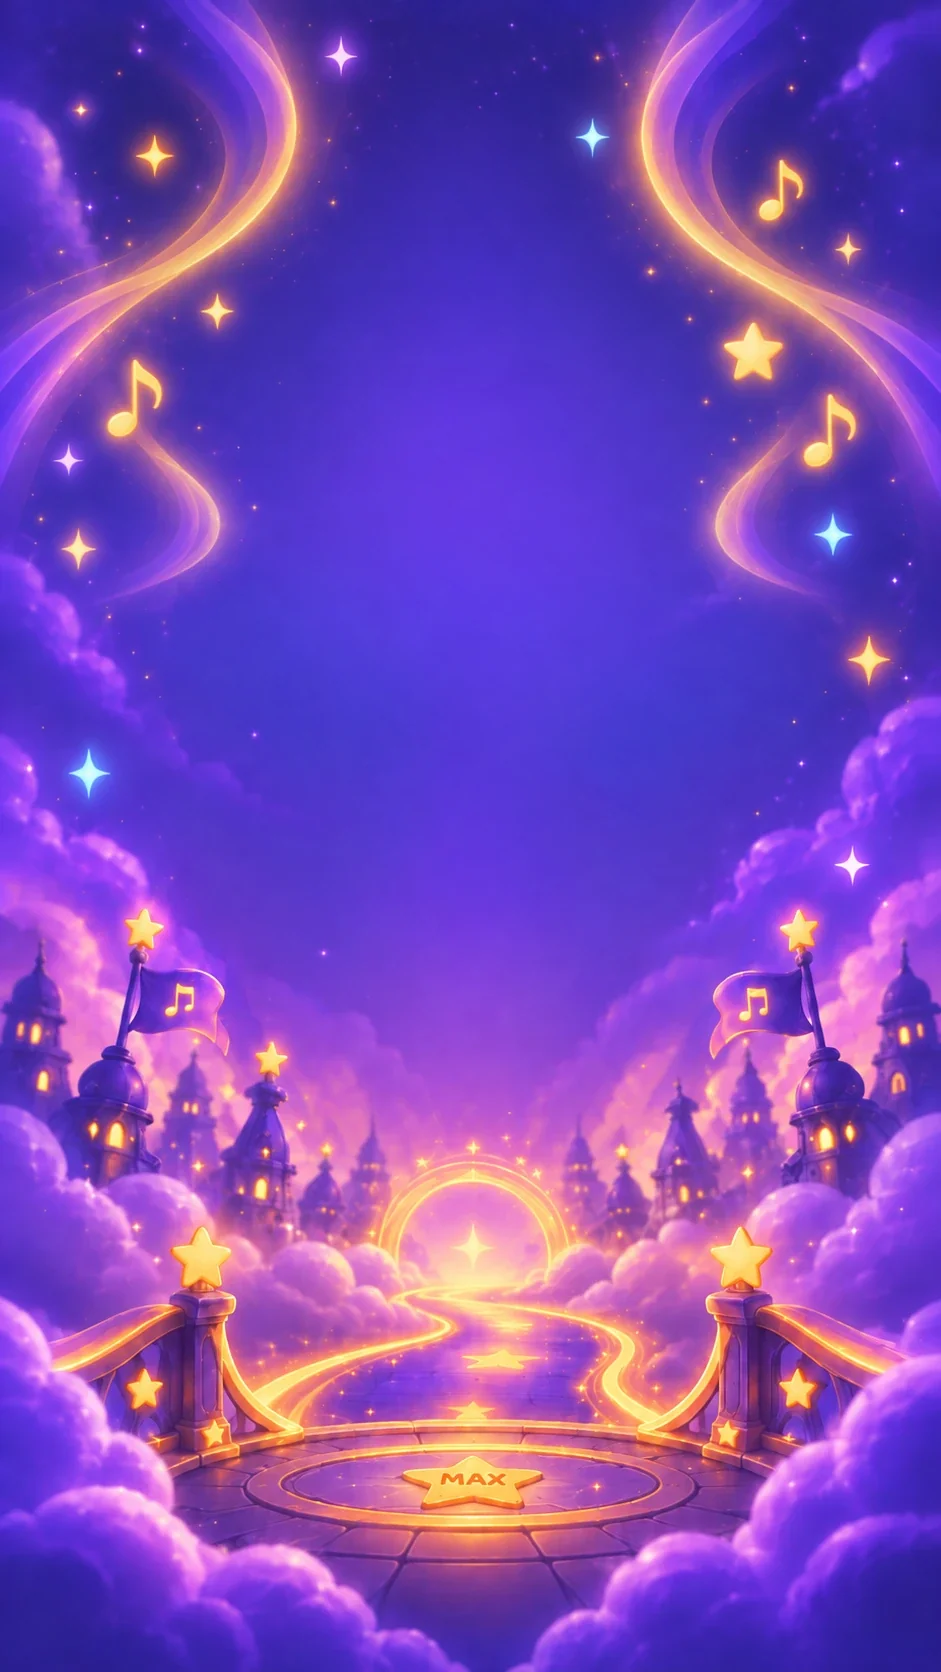
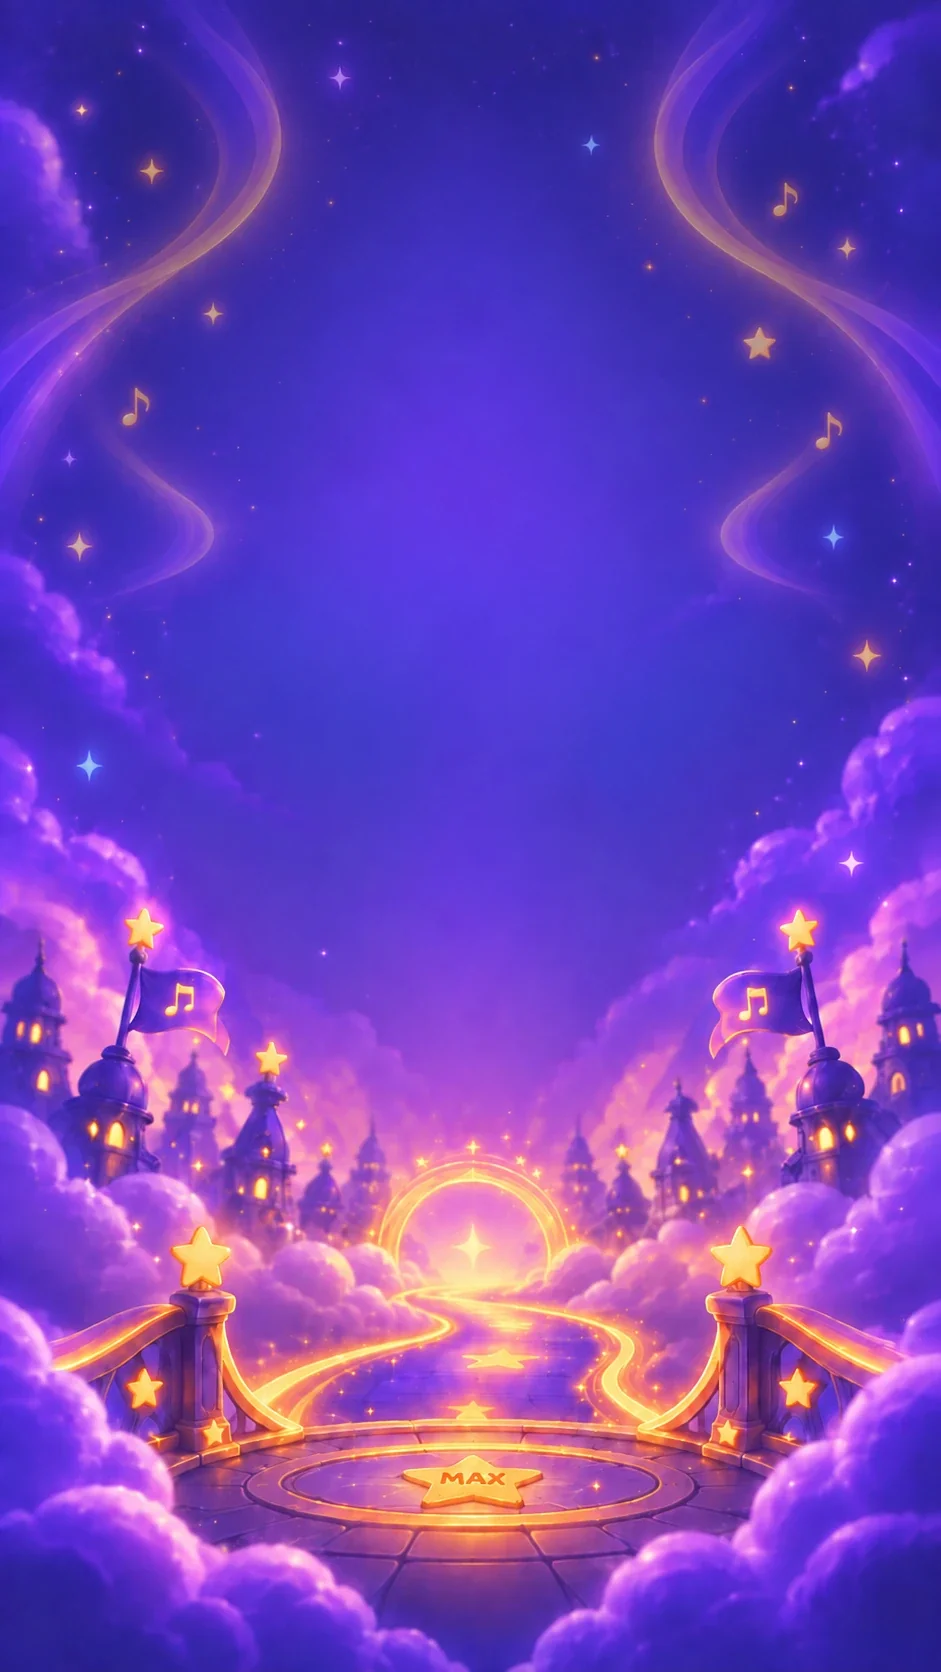
Nog een landing-achtergrond, en ART_CACHE gaat omhoog
Vervangt assets/bg/landing.webp nogmaals door een nieuwe sterrenpoort-
tekening (zelfde bewerking: WebP, herexport op kwaliteit 85, 941x1672,
~95KB, geen zichtbaar kwaliteitsverlies).

Omdat dit een bestaande tekening onder dezelfde naam vervangt, blijven
spelers met een geïnstalleerde servicewerker anders de oude zien
(docs/LADEN.md, "Wanneer moet ART_CACHE omhoog?"). ART_CACHE gaat daarom
één keer omhoog (rekenpop-art -> rekenpop-art-2), met de bijbehorende
letterlijke cachenaam in de dev-tools (test/hub.js, test/preview.js) en
de test die daarop controleert (test/hub.test.js) mee.

Claude-Session: https://claude.ai/code/session_01SGZFJUqXRVENkYpL8urB1G

diff --git a/sw.js b/sw.js
@@ -9,7 +9,7 @@
  *                          omhoog. Gaat hij wél omhoog, dan wordt de oude
  *                          voorraad bij het activeren opgeruimd.
  *
- *   TEKENINGEN (rekenpop-art)  assets/: de wereldkaarten (~300 kB per stuk), het
+ *   TEKENINGEN (rekenpop-art-2)  assets/: de wereldkaarten (~300 kB per stuk), het
  *                          schilderij achter de sterrenkeuze, het spelogo en het
  *                          lettertype.
  *                          Cache-eerst, en de naam verandert níét bij een
@@ -29,7 +29,7 @@
  *     bewaar().
  */
 const CACHE = 'rekenpop-v46';
-const ART_CACHE = 'rekenpop-art';
+const ART_CACHE = 'rekenpop-art-2';
 const HUIDIG = [CACHE, ART_CACHE];
 const ASSETS = ['./', './index.html', './manifest.json',
                 './icon-192.png', './icon-512.png', './icon-maskable-512.png'];

diff --git a/test/hub.js b/test/hub.js
@@ -802,10 +802,10 @@ function verversPad(pad) {
    "Met servicewerker"), dan is dit het enige dat een vervangen tekening wél
    zichtbaar maakt. */
 async function voorraadWeg() {
-  try { if (window.caches) await caches.delete('rekenpop-art'); } catch (e) { /* mag */ }
+  try { if (window.caches) await caches.delete('rekenpop-art-2'); } catch (e) { /* mag */ }
   try {
     const w = $('#spel').contentWindow;
-    if (w && w.caches) await w.caches.delete('rekenpop-art');
+    if (w && w.caches) await w.caches.delete('rekenpop-art-2');
   } catch (e) { /* ander domein of nog niet geladen */ }
 }
 function meetBeeld(pad, klaar) {

diff --git a/test/preview.js b/test/preview.js
@@ -218,7 +218,7 @@ function panel(state) {
        die deze pagina al bediende blijft dat doen tot ze herlaadt, en zijn
        tekeningenvoorraad overleeft hem sowieso. Zonder deze regel blijf je na de
        oplossing hierboven nóg een ronde naar je oude tekening kijken. */
-    if (window.caches) caches.delete('rekenpop-art').catch(function () {});
+    if (window.caches) caches.delete('rekenpop-art-2').catch(function () {});
   }
 
   /* In het kijkvak van de Dev Studio hoort het kandidaatpaneeltje niet: dat scherm

diff --git a/test/hub.test.js b/test/hub.test.js
@@ -385,7 +385,7 @@ zaak('J · de servicewerker staat uit in het kijkvak', () => {
   check(a >= 0 && b >= 0 && a < b,
     'J · het uitzetten staat vóór die tak — anders blijft hij in het kijkvak staan',
     'uitzetten op ' + a + ', de tak op ' + b);
-  check(/caches\.delete\('rekenpop-art'\)/.test(bron),
+  check(/caches\.delete\('rekenpop-art-2'\)/.test(bron),
     'J · en de tekeningenvoorraad gaat weg — uitschrijven alleen is niet genoeg',
     'geen caches.delete');
 

diff --git a/docs/LADEN.md b/docs/LADEN.md
@@ -50,7 +50,7 @@ vóórdat hij getekend is.
 | voorraad | wat erin zit | strategie | naam |
 |---|---|---|---|
 | schil | `index.html`, manifest, iconen | netwerk-eerst, met een grens van 4 s | `rekenpop-v45` — hoeft **niet** omhoog bij een gewone uitgave (zie hieronder) |
-| tekeningen | alles onder `assets/` | cache-eerst | `rekenpop-art` — **blijft staan** |
+| tekeningen | alles onder `assets/` | cache-eerst | `rekenpop-art-2` — **blijft staan** |
 
 Waarom gescheiden: een tekstwijziging in het spel hoort geen twee megabyte
 tekeningen opnieuw over de telefoondata van een gezin te trekken. De tekeningen
